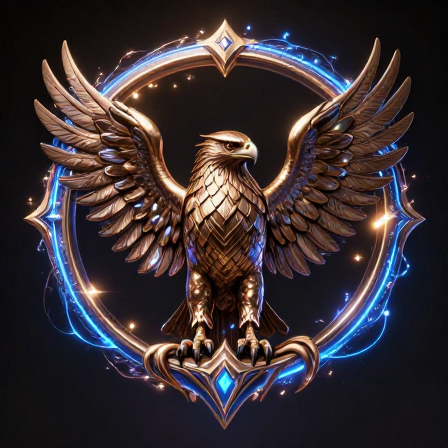
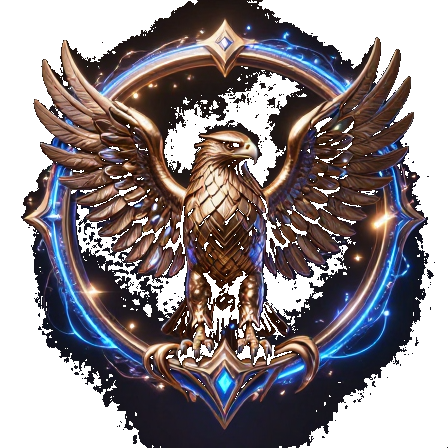
bigger transparent lobby emblem

diff --git a/lib/features/lobbies/lobby_hub_screen.dart b/lib/features/lobbies/lobby_hub_screen.dart
@@ -302,15 +302,15 @@ class _LobbyHubScreenState extends ConsumerState<LobbyHubScreen> {
       child: Row(
         children: [
           Container(
-            width: 48,
-            height: 48,
+            width: 72,
+            height: 72,
             decoration: BoxDecoration(
-              color: label.color.withValues(alpha: .12),
+              color: Colors.transparent,
               borderRadius: BorderRadius.circular(15),
             ),
             child: ClipRRect(
                 borderRadius: BorderRadius.circular(15),
-                child: Image.asset('assets/lobby/radical_lobby_emblem.png', fit: BoxFit.cover),
+                child: Image.asset('assets/lobby/radical_lobby_emblem.png', fit: BoxFit.contain, filterQuality: FilterQuality.high),
               ),
           ),
           const SizedBox(width: 10),
